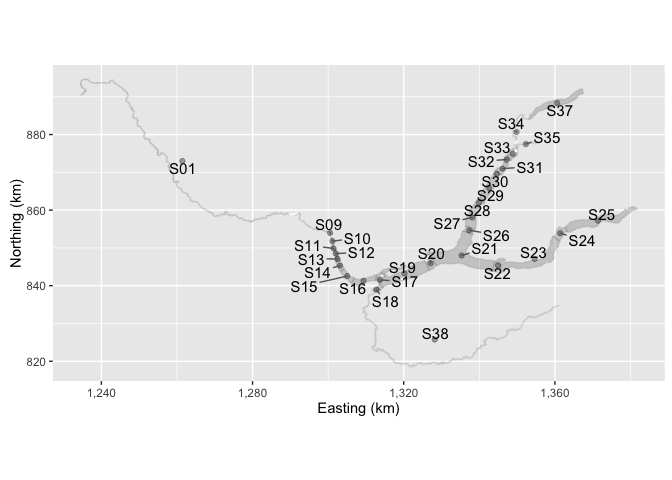
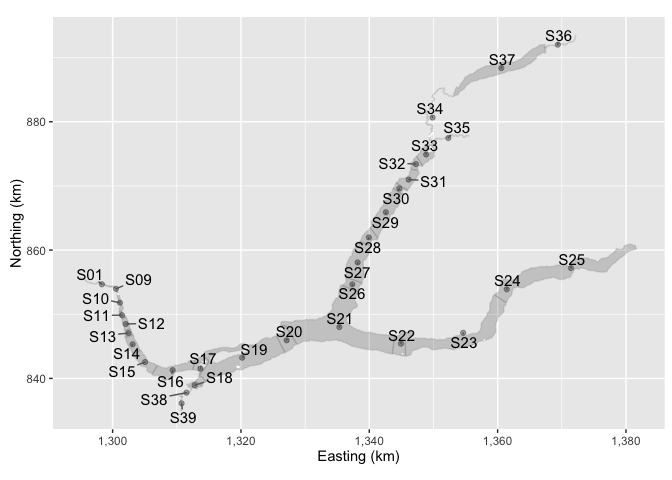
New Sections

diff --git a/README.md b/README.md
@@ -21,21 +21,21 @@ lex_data %<>% check_lex_data()
 
 print(lex_data)
 #> $section
-#> Source: local data frame [30 x 3]
+#> Source: local data frame [32 x 4]
 #> 
-#>    Section SectionX SectionY
-#>     (fctr)    (dbl)    (dbl)
-#> 1      S01  1261438 872984.8
-#> 2      S09  1300511 853963.2
-#> 3      S10  1301137 851791.7
-#> 4      S11  1301451 849862.5
-#> 5      S12  1302051 848480.9
-#> 6      S13  1302477 847060.1
-#> 7      S14  1303116 845317.4
-#> 8      S15  1305063 842552.3
-#> 9      S16  1309357 841285.2
-#> 10     S18  1312795 838945.4
-#> ..     ...      ...      ...
+#>    Section Habitat SectionX SectionY
+#>     (fctr)  (fctr)    (dbl)    (dbl)
+#> 1      S01   Lotic  1298327 854668.9
+#> 2      S09   Lotic  1300511 853963.2
+#> 3      S10  Lentic  1301137 851791.7
+#> 4      S11  Lentic  1301451 849862.5
+#> 5      S12  Lentic  1302051 848480.9
+#> 6      S13  Lentic  1302477 847060.1
+#> 7      S14  Lentic  1303116 845317.4
+#> 8      S15  Lentic  1305063 842552.3
+#> 9      S16  Lentic  1309357 841285.2
+#> 10     S39   Lotic  1310751 836116.0
+#> ..     ...     ...      ...      ...
 #> 
 #> $station
 #> Source: local data frame [46 x 4]
@@ -49,9 +49,9 @@ print(lex_data)
 #> 5           Raft Creek North     S15  1304628 843825.2
 #> 6            Hazeltine North     S15  1305481 842644.5
 #> 7            Hazeltine Point     S15  1305749 840969.4
-#> 8             Cariboo Island     S17  1313248 842218.0
-#> 9         Horsefly Bay North     S17  1313357 839963.1
-#> 10    Narrows Cariboo Island     S17  1313464 841227.9
+#> 8                 Otter Hole     S38  1310565 837332.4
+#> 9       Horsefly River Delta     S38  1312071 837971.7
+#> 10            Cariboo Island     S17  1313248 842218.0
 #> ..                       ...     ...      ...      ...
 #> 
 #> $deployment
